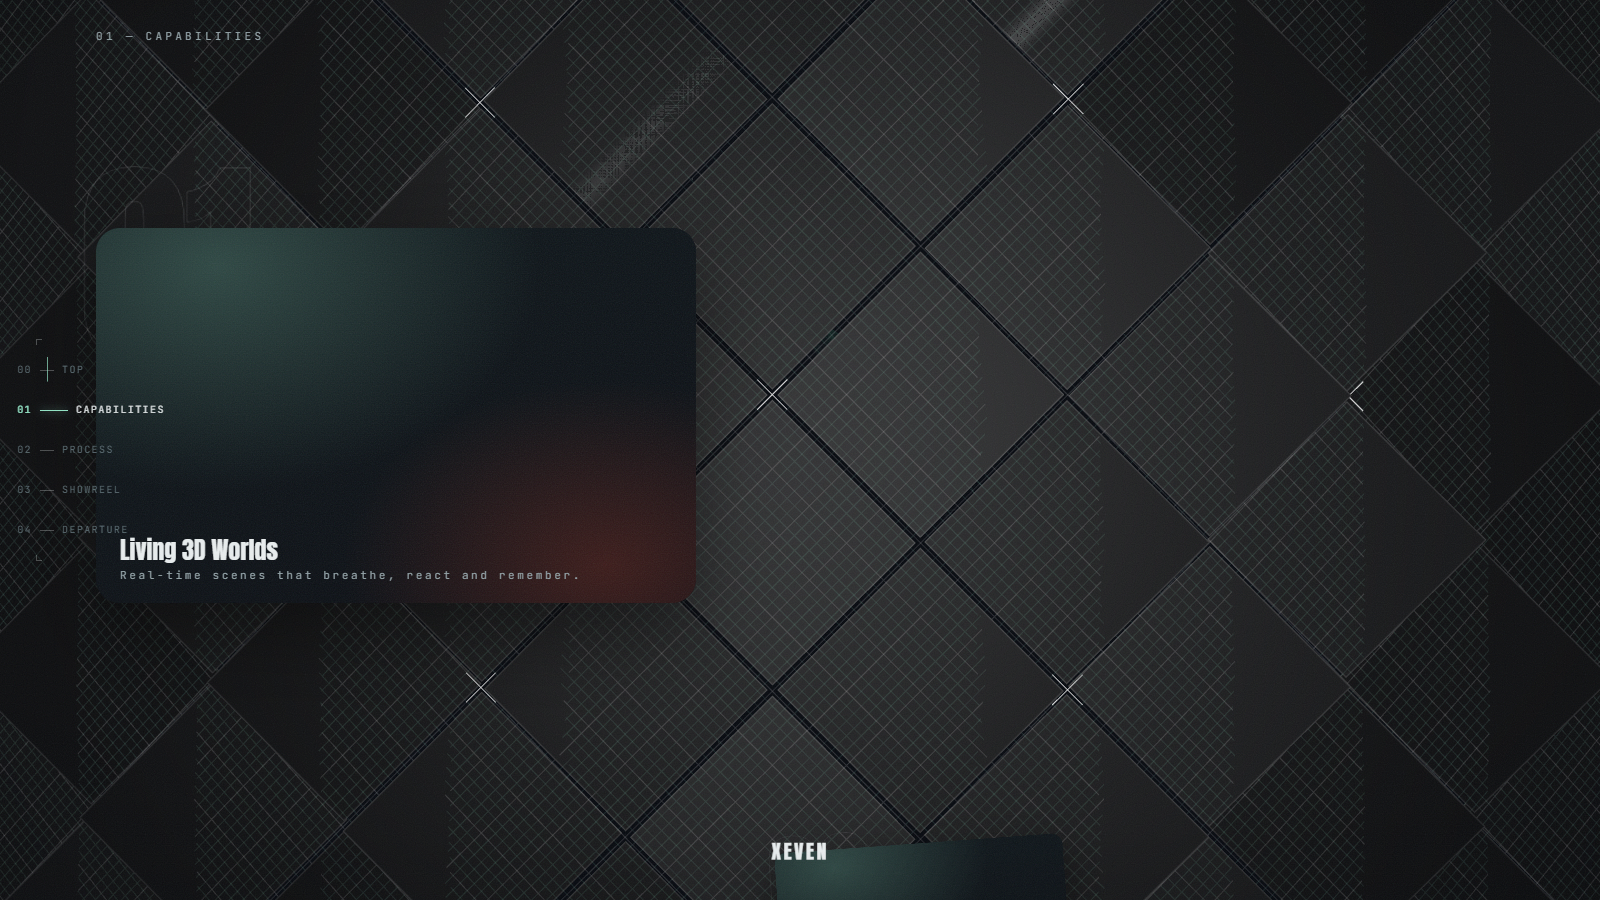
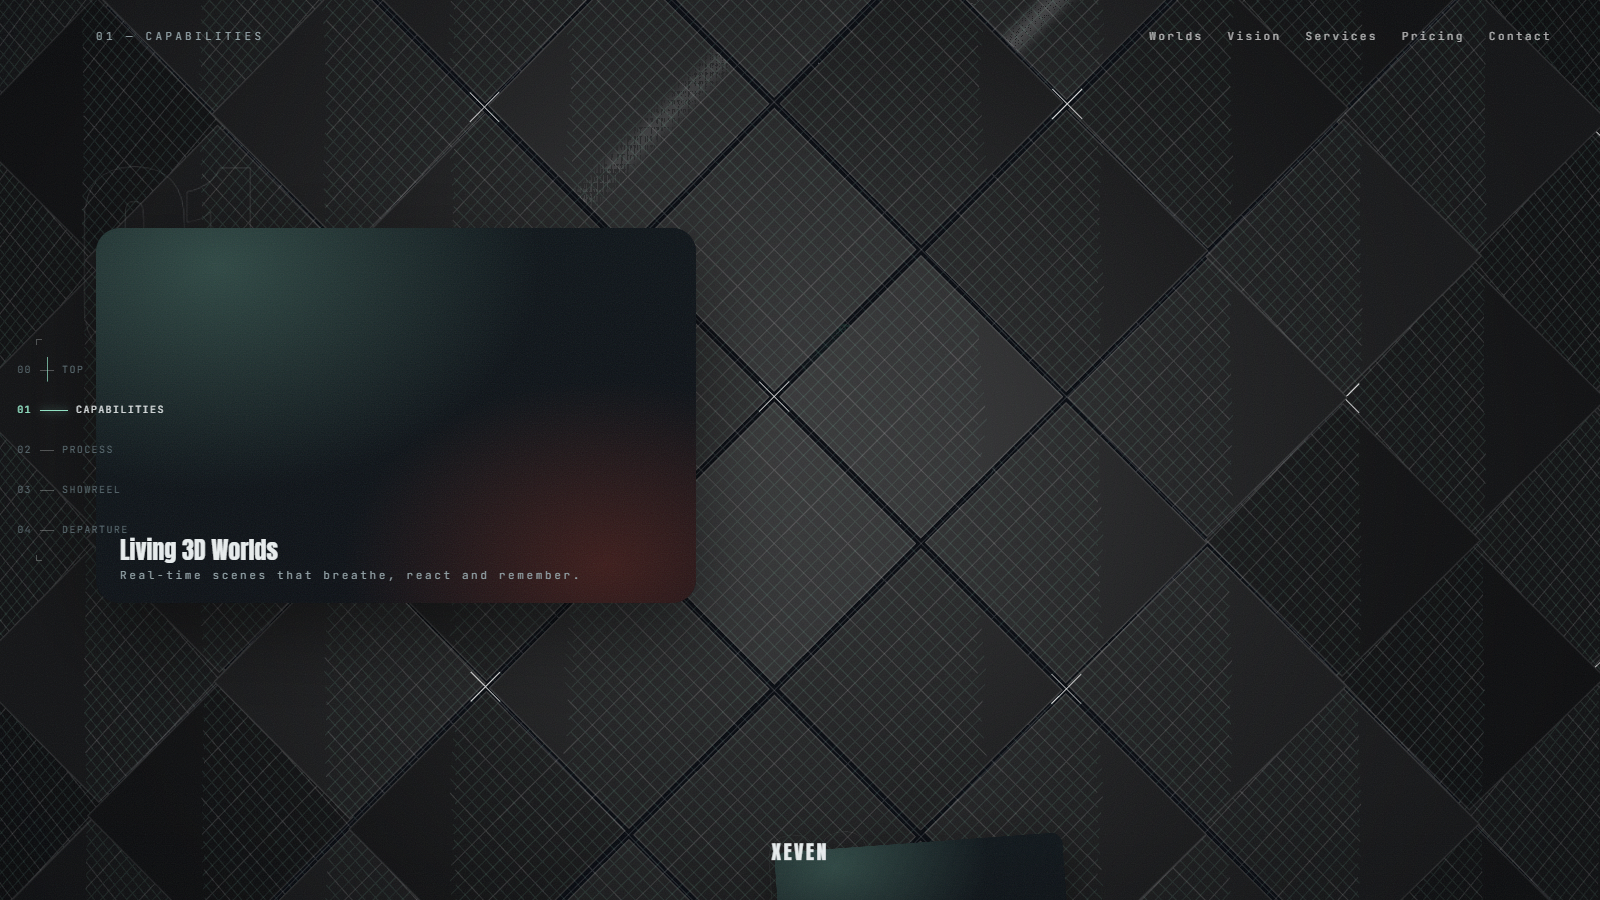
Remove cursor streak lines; kindle glow presence kept

diff --git a/src/components/VoidWorld.tsx b/src/components/VoidWorld.tsx
@@ -20,8 +20,8 @@ gsap.registerPlugin(ScrollTrigger)
  * per resize), black quad panels with in-shader borders + breathing shimmer
  * + cursor kindle + 7s roaming cinema, plus survey crosses, an additive
  * starfield, four lit wireframe solids, exponential haze, and the shapeless
- * cursor blob (ported streak-for-streak from the mock: motion intensity
- * only, drains at rest, native cursor untouched).
+ * cursor presence is kindle light only: the field breathes around the
+ * pointer, but no line, streak, or shape ever chases it — by design.
  *
  * 4D (time as the fourth dimension): uTime drives the cinema clock, haze
  * breathing, rim orbit and shimmer phase — the world evolves standing still.
@@ -58,10 +58,6 @@ const WAYPOINTS: Array<[number, number, number]> = [
 interface Floater extends THREE.Mesh {
   userData: { rx: number; ry: number; fs: number; fo: number; fa: number; by: number }
 }
-
-interface BlobP { x: number; y: number; vx: number; vy: number; e: number }
-const BLOB_N = 110
-const BLOB_REACH = 260
 
 export default function VoidWorld() {
   const ref = useRef<HTMLCanvasElement>(null!)
@@ -377,23 +373,9 @@ export default function VoidWorld() {
       group.add(mesh)
     }
 
-    // ---- cursor blob: ported streak-for-streak, projected to z=3 ----
-    const blob: BlobP[] = []
-    const blobPos = new Float32Array(BLOB_N * 2 * 3)
-    const blobGeo = new THREE.BufferGeometry()
-    const blobAttr = new THREE.BufferAttribute(blobPos, 3)
-    blobAttr.setUsage(THREE.DynamicDrawUsage)
-    blobGeo.setAttribute('position', blobAttr)
-    const blobLines = new THREE.LineSegments(
-      blobGeo,
-      new THREE.LineBasicMaterial({
-        color: 0xffffff, transparent: true, opacity: 0.5,
-        blending: THREE.AdditiveBlending, depthWrite: false,
-      }),
-    )
-    blobLines.frustumCulled = false
-    scene.add(blobLines)
-    let blobPlaced = false
+    // ---- cursor presence: eased finger + echo ring feed the shader
+    // kindle (light that breathes around the pointer). No streak geometry —
+    // nothing draws lines that chase the cursor, by design.
     let btx = window.innerWidth / 2
     let bty = window.innerHeight / 2
     let bInside = true
@@ -405,18 +387,6 @@ export default function VoidWorld() {
     let bloom = 0
     let ptx = btx
     let pty = bty
-    const projV = new THREE.Vector3()
-    const projD = new THREE.Vector3()
-    const toWorld = (px: number, py: number, out: { x: number; y: number }) => {
-      projV.set((px / window.innerWidth) * 2 - 1, -(py / window.innerHeight) * 2 + 1, 0.5)
-      projV.unproject(camera)
-      projD.copy(projV).sub(camera.position).normalize()
-      const dist = (3 - camera.position.z) / projD.z
-      out.x = camera.position.x + projD.x * dist
-      out.y = camera.position.y + projD.y * dist
-    }
-    const wA = { x: 0, y: 0 }
-    const wB = { x: 0, y: 0 }
 
     // ---- waypoint journey ----
     let fracs: number[] = []
@@ -551,63 +521,6 @@ export default function VoidWorld() {
       quadUniforms.uBloom.value = bloom
       quadUniforms.uVel.value = vBoost
 
-      // blob streaks, projected to the z=3 plane
-      if (!blobPlaced) {
-        if (bInside) {
-          for (let i = 0; i < BLOB_N; i++) {
-            blob.push({
-              x: ccx + (Math.random() - 0.5) * 90,
-              y: ccy + (Math.random() - 0.5) * 90,
-              vx: 0, vy: 0, e: 0,
-            })
-          }
-          blobPlaced = true
-        }
-      } else {
-        const k = Math.min(1.6, (dt * 1000) / 16.7)
-        const drive = bInside ? Math.min(1, spd * 1.15) : 0
-        for (let bi = 0; bi < blob.length; bi++) {
-          const p = blob[bi]
-          const dx = ccx - p.x
-          const dy = ccy - p.y
-          const d = Math.hypot(dx, dy)
-          p.vx = (p.vx + dx * 0.009 * k) * Math.pow(0.93, k)
-          p.vy = (p.vy + dy * 0.009 * k) * Math.pow(0.93, k)
-          const curl =
-            Math.sin(p.x * 0.017 + t * 2.6) * Math.cos(p.y * 0.019 - t * 2.1)
-          const curl2 =
-            Math.cos(p.x * 0.008 - t * 1.4) * Math.sin(p.y * 0.011 + t * 1.9)
-          p.vx += (curl * 0.5 + curl2 * 0.3) * k
-          p.vy += (curl2 * 0.5 - curl * 0.3) * k
-          p.x += p.vx * k
-          p.y += p.vy * k
-          const target = drive * Math.min(1, Math.max(0, 1.2 - d / BLOB_REACH))
-          p.e += (target - p.e) * Math.min(1, dt * 1000 * 0.009)
-          if (p.e <= 0.02) {
-            // drained particles collapse to zero-length segments: nothing
-            // rasterizes, no per-particle alpha state needed
-            blobPos[bi * 6] = 0
-            blobPos[bi * 6 + 1] = 0
-            blobPos[bi * 6 + 2] = 3
-            blobPos[bi * 6 + 3] = 0
-            blobPos[bi * 6 + 4] = 0
-            blobPos[bi * 6 + 5] = 3
-            continue
-          }
-          toWorld(p.x, p.y, wA)
-          toWorld(p.x - p.vx * 8, p.y - p.vy * 8, wB)
-          blobPos[bi * 6] = wA.x
-          blobPos[bi * 6 + 1] = wA.y
-          blobPos[bi * 6 + 2] = 3
-          blobPos[bi * 6 + 3] = wB.x
-          blobPos[bi * 6 + 4] = wB.y
-          blobPos[bi * 6 + 5] = 3
-        }
-        blobAttr.needsUpdate = true
-        // energy gate lives in the material via per-frame opacity? No —
-        // per-particle energy is baked into length; keep material steady.
-      }
-
       renderer.render(scene, camera)
     }
 
@@ -672,7 +585,6 @@ export default function VoidWorld() {
       setQuads: (v: boolean) => { quads.visible = v },
       setSolids: (v: boolean) => { group.visible = v },
       setStars: (v: boolean) => { stars.visible = v },
-      setBlob: (v: boolean) => { blobLines.visible = v },
     }
 
     ticking = true

diff --git a/backlog.md b/backlog.md
@@ -52,4 +52,5 @@ Scope frozen: map-only phase found zero blank routes, zero dead links, zero cons
 - [x] STRATA background lineage (G:\mocks\background mock 01 replaces the dot lattice): ported archBg + cursor blob + pointer feed to src/components/strata/; GraphBg.tsx DELETED (App now mounts StrataBg). Mock locks kept (parked sheet, no cursor pull, native cursor, motion-intensity blob that drains at rest, baked static layers, adaptive DPR). Improvements over the mock: void #06090f base (melts into page, black mesh still carves), mint micro-fractures (no purple), showcase tier (index full convex bow + full glow, subpages flat + half glow, rebuild on hashchange), scroll-velocity kindle via xs.vel (decayed in-frame), 6s idle sleep with input wake, hidden-tab pause, route-switch bloom pulse knitting the X veil. Seamless-experience wiring: clicks bloom anywhere, flicks stir the field, switches flash the field under the veil. Verified: build green, tsc clean, oxlint 3 pre-existing warnings, Edge 60fps hero / 0 errors / 0 overflow (1600 + 390), canvas overscanned 1696×996 @ −48/−48, old canvas gone, worlds flat tier persists. Frames e0/e1/e2 VISUALLY VERIFIED (convex bow + mesh + plus marks + mint fractures + kindle glow + quad chevrons; deck cards over the field; flat diamond on Worlds). Evidence: verify/strata/d2-strata.json + 3 frames, scripts/d2-strata.mjs.
 - [x] VOIDWORLD from scratch (unified 1-canvas-1-ticker-1-journey rebuild; STRATA 2D + void-objects layers both retired): per-step research (baked-BufferGeometry line families, InstancedMesh + ShaderMaterial per-instance-attribute fields, waypoint-camera grammar) then rebuilt the lineage as real 3D — 45° diamond lattice bowed on a convex cylinder (baked once per resize; 3 static draws: bone grid / mint micro / survey crosses), 225 instanced diamond panels aligned to the rails with in-shader hairline borders + breathing shimmer + cursor/echo kindle + 7s roaming cinema, starfield, 4 lit wireframe solids, FogExp2 haze, ported cursor-blob streaks, waypoint camera (1 stop per index section, lerped = interruptible + scrub-reversible), uTime 4D evolution, DPR caps, 6s idle sleep, hidden-tab pause, single-frame reduced stand-down, full dispose. Debugged with evidence at each step: rescaled world 3× to mock densities (fixed gray wash), corrected rail basis (a collapsed line family), aligned quads to rails as diamonds, dimmed borders to hairlines — verified by pixel sampling + layer-isolation probes + a kept __voidworld debug handle. Verified: build green, tsc clean, 3 pre-existing warnings, Edge 0 errors / 0 overflow, legacy canvases gone, worlds flat-park + return alive, deck/ghost/thread/rail/counter/clock intact over the new field. PERF HONESTY: 12fps headless SwiftShader (CPU rasterizer, fill-bound) vs 60fps strata-only same env — ~10 draw calls, no postprocessing, sleeps at idle; GPU hardware idles this scene, number is environment tax. Chunk: VoidWorld async 556KB raw / 140KB gzip, never blocks first paint. Frames g0/g1/g2 + iso-nq2 VISUALLY VERIFIED (diamond bow, kindle at cursor, deck over field, ember rows, finale rail). Evidence: verify/world/d4-world.json + 3 frames, scripts/d4-world.mjs.
 - [x] Correction pass (9 notes): bar-free navbar (content floats, zero bar chrome); custom cursor fully deleted (native only, 0 dots 0 rings verified); rail clears the process gutter (rows + spine shifted right, thread/stub/node math follows, mobile reclaims gutter); X grow + white spread removed (mark simply yields at proc end, process integrates with the dark field — thread/node/row-light carry it); intro reborn as MERGE (full-field bone spheres gather distance-delayed into a mint mass, ledger live, no ember, no burst). Verified: builds green, 3 pre-existing warnings, Edge 0 errors / 0 overflow, intro ledger 039→059 live. Frames VISUALLY VERIFIED (merge mass with mint heart; dark process with ember rows + node + bone mark; instrument rail clear). Evidence: refreshed g3 + g2 in verify/world/.
+- [x] Blob streaks removed (cursor line gone, kindle glow kept): excised the 110-particle streak system from VOIDWORLD — geometry, projector math, per-frame particle sim, debug toggle — while preserving the eased finger/echo feed, stir/bloom/velocity uniforms and the quad-shader kindle. The field still breathes light around the pointer; no line, streak, or shape ever chases it now. Verified: build green, tsc clean, 3 pre-existing warnings, Edge 0 errors / 0 overflow on a mouse-sweep pass, hero frame shows zero trailing geometry. Evidence: refreshed g0 in verify/world/.
 - [x] Five-act index (A–F execution): trimmed to TOP → CAPABILITIES → PROCESS → SHOWREEL → DEPARTURE — manifesto pin/scrub, stats/counters/rules, tiers/TierCard deleted with all tweens (178 lines out); tb-logo return retargeted to foot; rail + camera journey 8→5 stops. (B) TopBar invisible on index (rail owns nav; returns on subpages). Rail rebuilt as survey instrument: always-on labels, 10px type, glowing active tick, end-cap brackets, progress hairline. (C) Fan-deck THROW: deck materializes behind the mark, cards toss on curved paths (linear x × eased y) unwinding rotation and blooming scale into slots. (D) Showreel STAGE: pinned fullscreen takes assembling/yielding through the frame (single timeline owns all cell opacity/scale); X slide-cover kept as the door (fits the bridge); counter intact. (E) Cursor stripped to one crisp 1:1 dot (ring/dot/trail gone, difference-blend kept); intro tightened 3.3s→1.9s (fast burn, ember kiss, SIGNAL/WORLD/LIVE ledger). Verified: builds green throughout, 3 pre-existing warnings, Edge 0 errors / 0 overflow, 5 rail stops from 00 TOP, dead sections absent, 1 dot 0 rings, 5 cells staged. Frames VISUALLY VERIFIED (instrument rail, thrown card + ghost 01, ember rows + node + black X). Evidence: verify/world/d4-world.json + refreshed g0/g1/g2.
